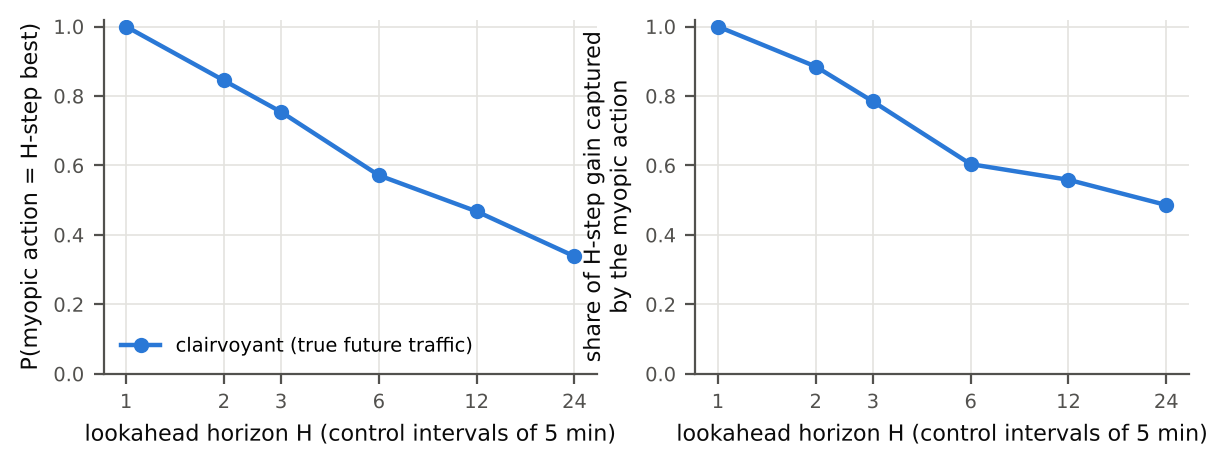
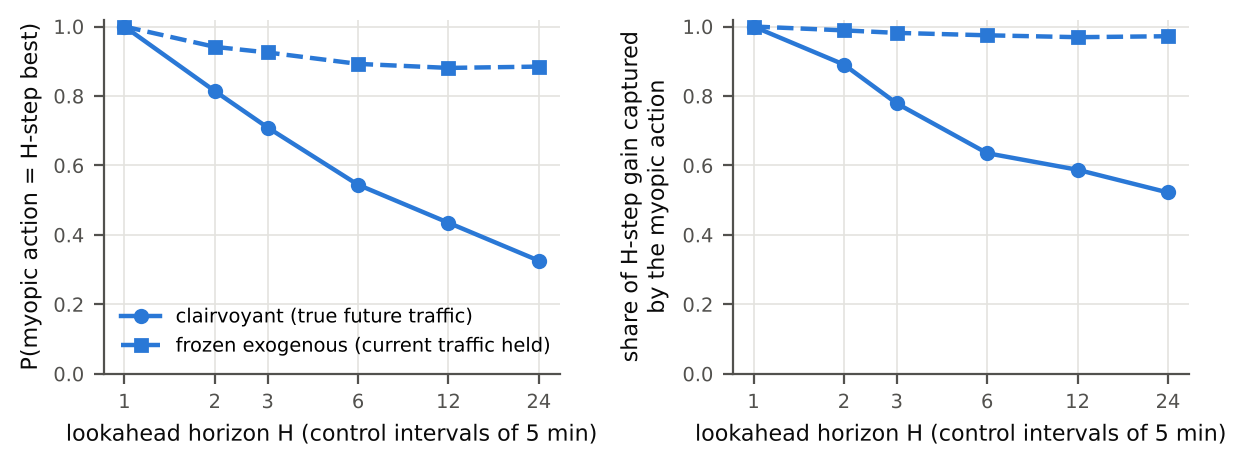
Frozen-exogenous sequentiality diagnostic complete (495 paired states)
Claude-Session: https://claude.ai/code/session_018n5SgRGB1EggQfqcrjiwFf

diff --git a/scripts/make_paper_figures.py b/scripts/make_paper_figures.py
@@ -133,6 +133,7 @@ def fig_seqdiag() -> None:
     axes[0].set_ylabel("P(myopic action = H-step best)")
     axes[1].set_ylabel("share of H-step gain captured\nby the myopic action")
     axes[0].legend(loc="lower left")
+    fig.subplots_adjust(wspace=0.38)
     save(fig, "fig_seqdiag")
 
 

diff --git a/docs/SEQUENTIALITY_AUDIT.md b/docs/SEQUENTIALITY_AUDIT.md
@@ -59,12 +59,12 @@ Two variants:
 | clairvoyant | 6 | 474 | 54 % | 64 % | 35 % | 27 % |
 | clairvoyant | 12 | 453 | 43 % | 59 % | 46 % | 19 % |
 | clairvoyant | 24 | 390 | 33 % | 52 % | 59 % | 13 % |
-| frozen exogenous | 1 | 459 | 100 % | 100 % | 0 % | 61 % |
-| frozen exogenous | 2 | 459 | 94 % | 99 % | 5 % | 56 % |
-| frozen exogenous | 3 | 459 | 93 % | 98 % | 7 % | 54 % |
-| frozen exogenous | 6 | 441 | 90 % | 98 % | 9 % | 53 % |
-| frozen exogenous | 12 | 423 | 89 % | 97 % | 9 % | 53 % |
-| frozen exogenous | 24 | 369 | 90 % | 97 % | 8 % | 55 % |
+| frozen exogenous | 1 | 495 | 100 % | 100 % | 0 % | 59 % |
+| frozen exogenous | 2 | 495 | 94 % | 99 % | 5 % | 54 % |
+| frozen exogenous | 3 | 495 | 93 % | 98 % | 6 % | 52 % |
+| frozen exogenous | 6 | 474 | 89 % | 97 % | 8 % | 50 % |
+| frozen exogenous | 12 | 453 | 88 % | 97 % | 9 % | 50 % |
+| frozen exogenous | 24 | 390 | 88 % | 97 % | 8 % | 53 % |
 
 Per scenario at H = 24 (agreement / gain captured):
 
@@ -76,7 +76,7 @@ Per scenario at H = 24 (agreement / gain captured):
 | link_failure | 30 % / 57 % | 93 % / 99 % |
 | deceptive_local_optimum | 40 % / 52 % | 87 % / 92 % |
 | ood_double_failure | 23 % / 36 % | 93 % / 97 % |
-| overload_stress | 24 % / 67 % | pending |
+| overload_stress | 24 % / 67 % | 67 % / 96 % |
 <!-- SEQ:END -->
 
 ## 4. Interpretation

diff --git a/docs/RESULTS_MANIFEST.md b/docs/RESULTS_MANIFEST.md
@@ -2,7 +2,7 @@
 
 *Generated by `scripts/study/analyze.py`; do not edit by hand.* Every number, table and figure in `paper/` and `report/` is produced by the script listed here from the listed inputs. Inputs under `experiments/raw/` are versioned; checkpoints are not (see `docs/REPRODUCIBILITY.md`).
 
-Analysis run at commit `d0e1ff6452c4` (the commit *before* the regenerated outputs were committed).
+Analysis run at commit `29b5667b9731` (the commit *before* the regenerated outputs were committed).
 
 | Paper artifact | Output | Produced by | Inputs | Experiments | Seeds |
 |---|---|---|---|---|---|
